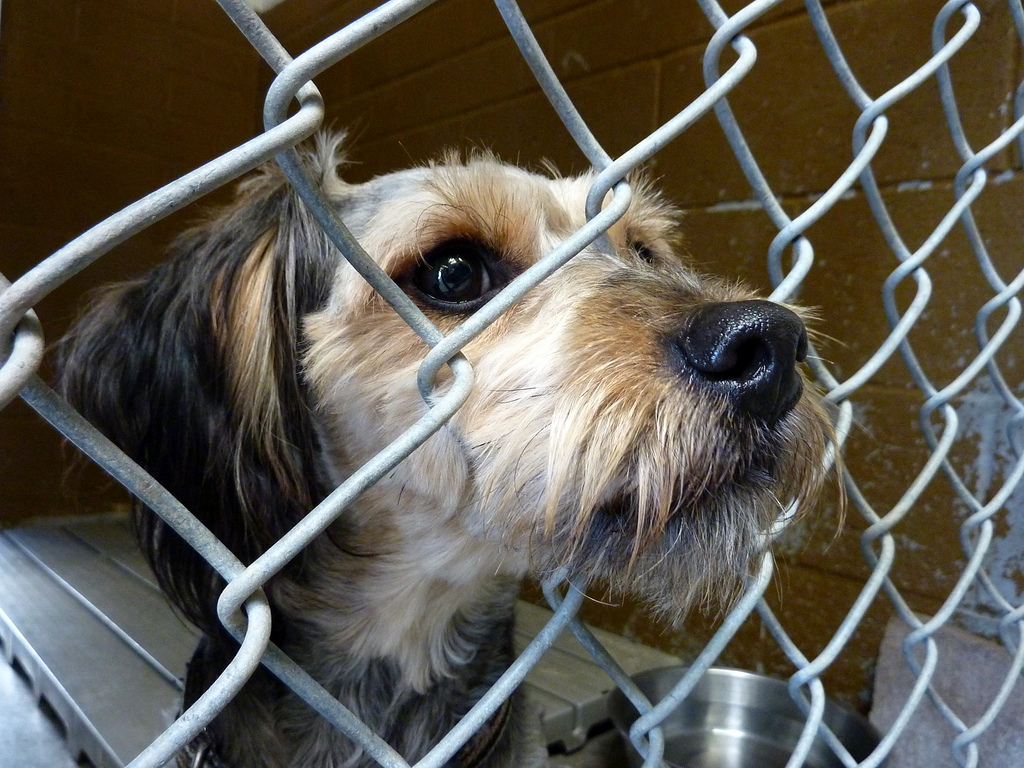
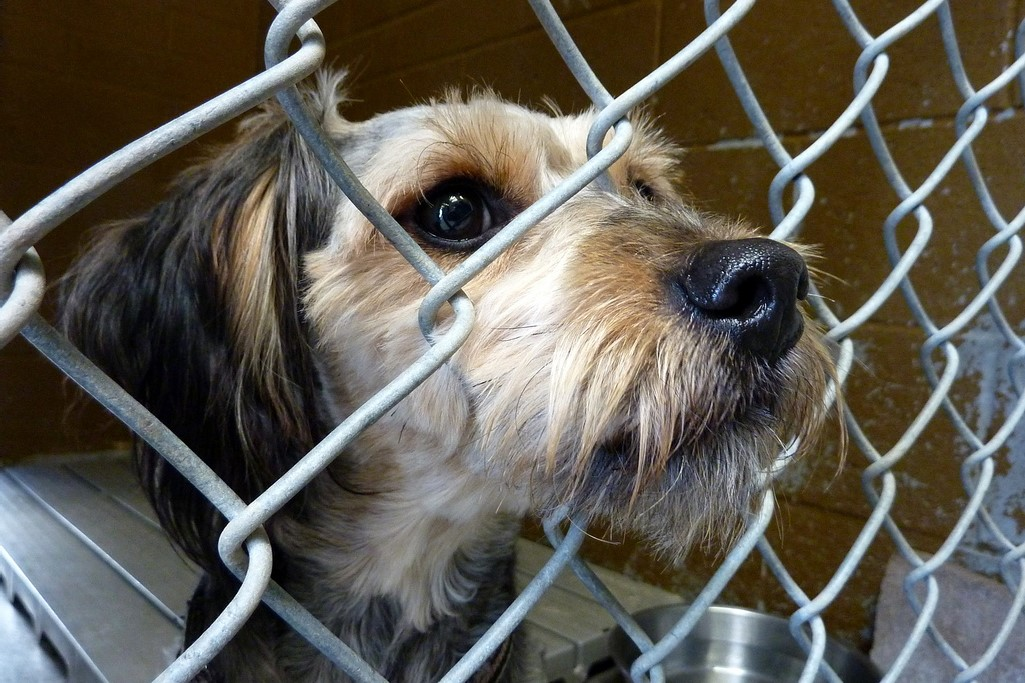
audio and other updates

diff --git a/index.html b/index.html
@@ -31,8 +31,8 @@
 									<li>
 										<a href="#" class="icon fa-bar-chart-o"><span>Media Content</span></a>
 										<ul>
-											<li><a href="longvid.html">Ruby's Happily Ever After</a></li>
-											<li><a href="#">Magna phasellus</a></li>
+											<li><a href="ruby.html">Ruby's Happily Ever After</a></li>
+											<li><a href="audio.html">Facts and Figures Audio</a></li>
 											<li><a href="#">Etiam dolore nisl</a></li>
 											<li>
 												<a href="#">Phasellus consequat</a>
@@ -65,7 +65,7 @@
 
 								<!-- Feature -->
 									<section>
-										<a href="#" class="image featured"><img src="images/dog in car edited.jpg" alt="" /></a>
+										<a href="#" class="image featured"><img src="images/dog in car.jpg" alt="" /></a>
 										<header>
 											<h3>Who are we?</h3>
 										</header>
@@ -78,7 +78,7 @@
 
 								<!-- Feature -->
 									<section>
-										<a href="#" class="image featured"><img src="images/cathomepage.jpeg" alt="" /></a>
+										<a href="#" class="image featured"><img src="images/other cat.jpg" alt="" /></a>
 										<header>
 											<h3>Why the New River Valley?</h3>
 										</header>

diff --git a/audio.html b/audio.html
@@ -1,0 +1,13 @@
+<html>
+<head>
+<link rel="stylesheet" type="text/css" href="assets/css/main.css" media="screen" />
+</head>
+<body <!-- Header -->
+  <div id="header-wrapper">
+    <div id="header" class="container">
+
+      <!-- Logo -->
+  <h1 id="logo">Facts and Figures</h1>
+  <p>Quick facts you need to know about animal adoption</p>
+<div id="features-wrapper">
+  <iframe width="100%" height="450" scrolling="no" frameborder="no" src="https://w.soundcloud.com/player/?url=https%3A//api.soundcloud.com/tracks/295800753&amp;auto_play=false&amp;hide_related=false&amp;show_comments=true&amp;show_user=true&amp;show_reposts=false&amp;visual=true"></iframe>

diff --git a/ruby.html b/ruby.html
@@ -10,6 +10,5 @@
   <h1 id="logo"> Ruby's Happily Ever After</h1>
   <p> Our mascot takes you through a day in her life after being adopted</p>
 <div id="features-wrapper">
-  	<section id="features" class="container">
 <iframe width="560" height="315" src="https://www.youtube.com/embed/rN5dF18J3AI" frameborder="0" allowfullscreen></iframe>
 </html>
